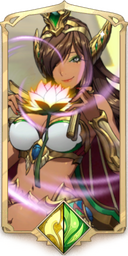
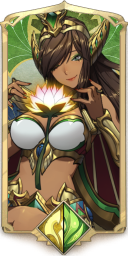
asset swaps and small ui fixes

diff --git a/src/components/Hero/HeroInfoContainer.js b/src/components/Hero/HeroInfoContainer.js
@@ -5,7 +5,7 @@ import HeroGuide from './Guide/HeroGuide';
 import SkillsContainer from './Skills/SkillsContainer';
 
 function HeroInfoContainer({ heroName }) {
-  const pageType = ['Skill', 'IW', 'Guide'];
+  const pageType = ['Skill', 'Weapon', 'Guide'];
   const [currentType, setCurrentType] = useState('Skill');
 
   return (
@@ -19,7 +19,7 @@ function HeroInfoContainer({ heroName }) {
       </div>
       <div className='type-container'>
         {currentType === 'Skill' && <SkillsContainer heroName={heroName} />}
-        {currentType === 'IW' && <IWContainer hero={heroName.replace(/-/g, ' ')} />}
+        {currentType === 'Weapon' && <IWContainer hero={heroName.replace(/-/g, ' ')} />}
         {currentType === 'Guide' && <HeroGuide hero={heroName.replace(/-/g, ' ')} />}
       </div>
     </div>

diff --git a/src/components/Hero/HeroPage.css b/src/components/Hero/HeroPage.css
@@ -33,14 +33,14 @@
 .heropage-type-button {
   background-color: transparent;
   display: inline-block;
-  padding: 0.35em 1.2em;
+  padding: 0.5em 1.25em;
   border: 2px solid white;
   margin: 0 0.3em 0.3em 0;
   border-radius: 0.5em;
   box-sizing: border-box;
   text-decoration: none;
+  font-weight: 500;
   font-family: 'Roboto', sans-serif;
-  font-weight: 300;
   color: white;
   text-align: center;
   transition: all 0.2s;
@@ -63,8 +63,18 @@
   }
 }
 
+@media screen and (min-width: 920px) {
+  .heropage-type-button {
+    font-size: 15px;
+  }
+}
+
 @media screen and (min-width: 1440px) {
   .hero-info-container {
     max-width: 850px;
+  }
+
+  .heropage-type-button {
+    font-size: 16px;
   }
 }

diff --git a/src/components/Hero/HeroPage.js b/src/components/Hero/HeroPage.js
@@ -12,7 +12,7 @@ function Hero({ setShowMenu }) {
   return (
     <section className={width < 1440 ? 'hero-container' : 'hero-container divided'} onClick={() => setShowMenu(false)}>
       <img
-        src={process.env.PUBLIC_URL + '/assets/illustration/' + hero + '.png'}
+        src={process.env.PUBLIC_URL + '/assets/hero/illustration/' + hero + (width < 600 ? '_480.png' : '_800.png')}
         alt={hero}
         className={'illustration ' + heroName}
       />

diff --git a/src/components/Hero/IW/IWStat.js b/src/components/Hero/IW/IWStat.js
@@ -1,5 +1,5 @@
 const IWStat = () => {
-  return <p>IW Stat: TBA</p>;
+  return <p>Iconic Weapon Stat: TBA</p>;
 };
 
 export default IWStat;
